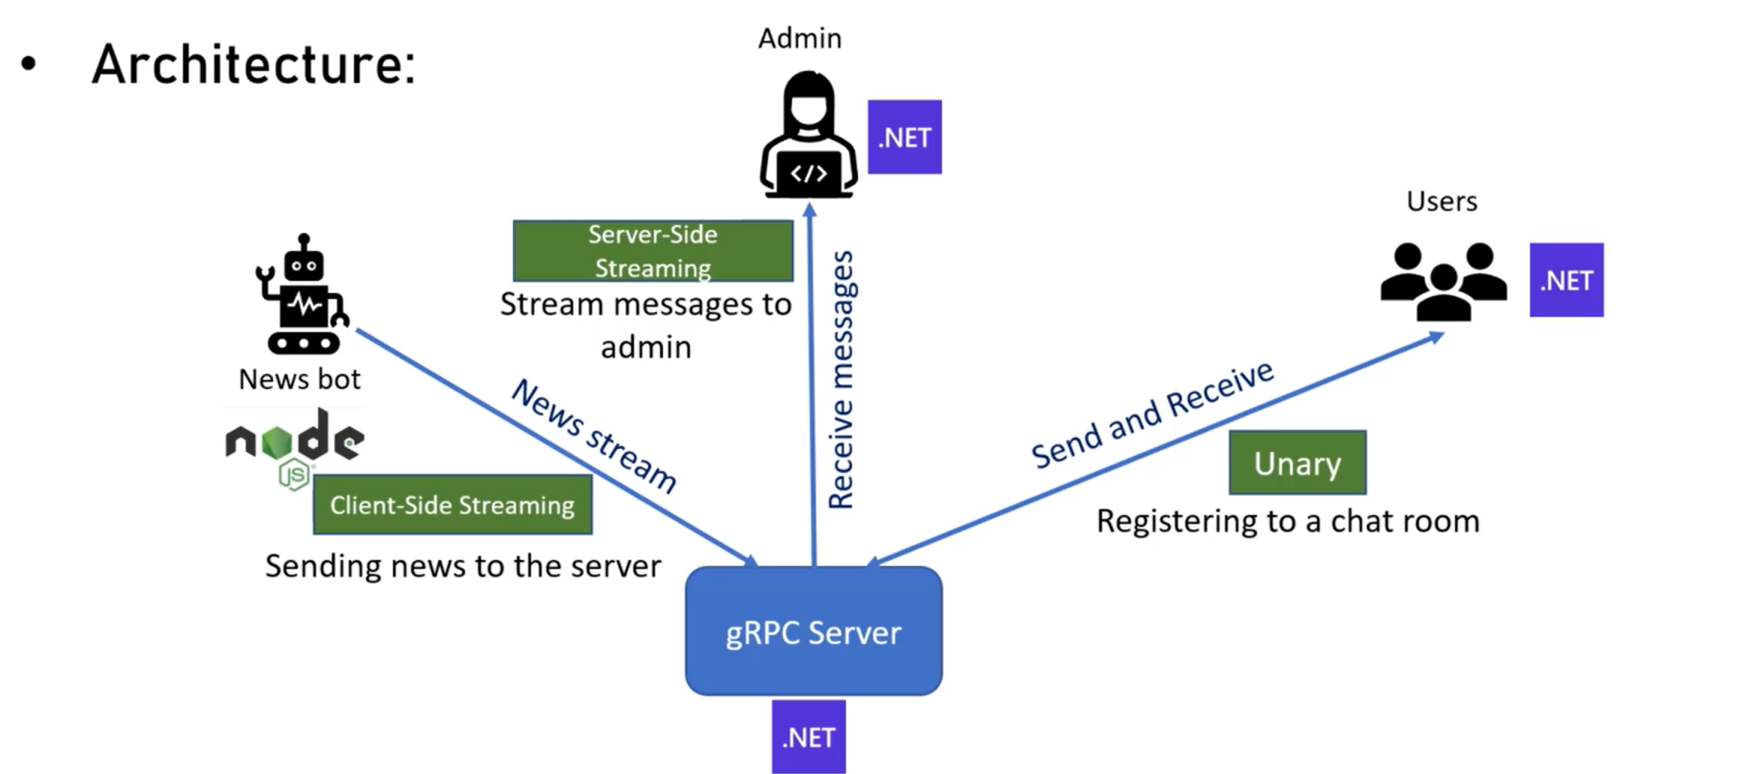
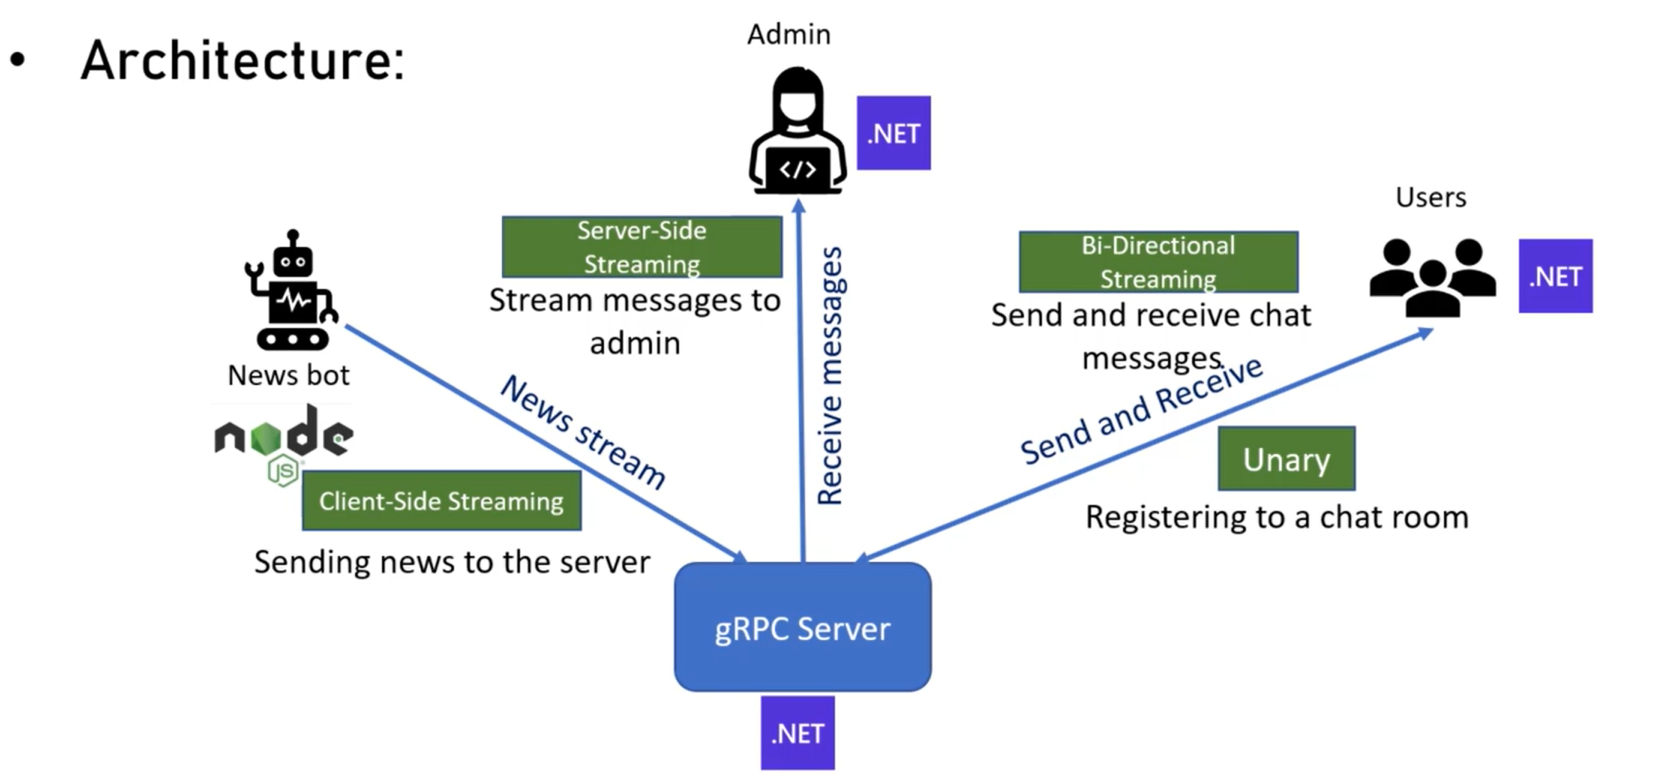
Setup for bi-directional stream

diff --git a/gRoomServer/Services/GRoomService.cs b/gRoomServer/Services/GRoomService.cs
@@ -13,34 +13,113 @@ public class GRoomService : GRoom.GRoomBase
         _logger = logger;
     }
 
-    public override Task<RoomRegistrationResponse> RegisterToRoom(RoomRegistrationRequest request, ServerCallContext context)
+    public override async Task<RoomRegistrationResponse> RegisterToRoom(RoomRegistrationRequest request, ServerCallContext context)
     {
-        _logger.LogInformation("Service called...");
-        _logger.LogInformation($"Room Name: {request.RoomName}");
-        var rnd = new Random();
-        var roomNum = rnd.Next(1, 100);
-        _logger.LogInformation($"Room no. {roomNum}");
-        var resp = new RoomRegistrationResponse { RoomId = roomNum };
-        return Task.FromResult(resp);
+        UsersQueues.CreateUserQueue(request.RoomName, request.UserName);
+        var resp = new RoomRegistrationResponse() { Joined = true };
+        return await Task.FromResult(resp);
     }
 
-    public override async Task<NewsStreamStatus> SendNewsFlash(IAsyncStreamReader<NewsFlash> newsStream, ServerCallContext context){
-        while (await newsStream.MoveNext()){
+    public override async Task<NewsStreamStatus> SendNewsFlash(IAsyncStreamReader<NewsFlash> newsStream, ServerCallContext context)
+    {
+        while (await newsStream.MoveNext())
+        {
             var news = newsStream.Current;
             MessagesQueue.AddNewsToQueue(news);
             Console.WriteLine($"News flash: {news.NewsItem}");
         }
-        return new NewsStreamStatus{Success=true};
+        return new NewsStreamStatus { Success = true };
     }
 
-    public override async Task StartMonitoring(Empty request, IServerStreamWriter<ReceivedMessage> streamWriter, ServerCallContext context){
-        while(true){
+    public override async Task StartMonitoring(Empty request, IServerStreamWriter<ReceivedMessage> streamWriter, ServerCallContext context)
+    {
+        while (true)
+        {
             //await streamWriter.WriteAsync(new ReceivedMessage{MsgTime=Timestamp.FromDateTime(DateTime.UtcNow), User="1", Contents="Test Message"});
-            if(MessagesQueue.GetMessagesCount()>0){
+            if (MessagesQueue.GetMessagesCount() > 0)
+            {
                 await streamWriter.WriteAsync(MessagesQueue.GetNextMessage());
             }
             await Task.Delay(500);
         }
+    }
+
+    public override async Task StartChat(IAsyncStreamReader<ChatMessage> incomingStream, IServerStreamWriter<ChatMessage> outgoingStream, ServerCallContext context)
+    {
+
+        // Wait for the first message to get the user name
+        while (!await incomingStream.MoveNext())
+        {
+            await Task.Delay(100);
+        }
+
+        string userName = incomingStream.Current.User;
+        string room = incomingStream.Current.Room;
+        Console.WriteLine($"User {userName} connected to room {incomingStream.Current.Room}");
+
+        // TEST TEST TEST TEST - TO USE ONLY WHEN TESTING WITH BLOOMRPC
+        UsersQueues.CreateUserQueue(room, userName);
+        // END TEST END TEST END TEST
+
+        // Get messages from the user
+        var reqTask = Task.Run(async () =>
+        {
+            while (await incomingStream.MoveNext())
+            {
+                Console.WriteLine($"Message received: {incomingStream.Current.Contents}");
+                UsersQueues.AddMessageToRoom(ConvertToReceivedMessage(incomingStream.Current), incomingStream.Current.Room);
+            }
+        });
+
+
+        // Check for messages to send to the user
+        var respTask = Task.Run(async () =>
+        {
+            while (true)
+            {
+                var userMsg = UsersQueues.GetMessageForUser(userName);
+                if (userMsg != null)
+                {
+                    var userMessage = ConvertToChatMessage(userMsg, room);
+                    await outgoingStream.WriteAsync(userMessage);
+                }
+                if (MessagesQueue.GetMessagesCount() > 0)
+                {
+                    var news = MessagesQueue.GetNextMessage();
+                    var newsMessage = ConvertToChatMessage(news, room);
+                    await outgoingStream.WriteAsync(newsMessage);
+                }
+
+                await Task.Delay(200);
+            }
+        });
+
+        // Keep the method running
+        while (true)
+        {
+            await Task.Delay(10000);
+        }
+    }
+
+    private ReceivedMessage ConvertToReceivedMessage(ChatMessage chatMsg)
+    {
+        var rcMsg = new ReceivedMessage();
+        rcMsg.Contents = chatMsg.Contents;
+        rcMsg.MsgTime = chatMsg.MsgTime;
+        rcMsg.User = chatMsg.User;
+
+        return rcMsg;
+    }
+
+    private ChatMessage ConvertToChatMessage(ReceivedMessage rcMsg, string room)
+    {
+        var chatMsg = new ChatMessage();
+        chatMsg.Contents = rcMsg.Contents;
+        chatMsg.MsgTime = rcMsg.MsgTime;
+        chatMsg.User = rcMsg.User;
+        chatMsg.Room = room;
+
+        return chatMsg;
     }
 }
 

diff --git a/gRoomServer/Utils/UsersQueues.cs b/gRoomServer/Utils/UsersQueues.cs
@@ -1,0 +1,68 @@
+using gRoom.gRPC.Messages;
+using Google.Protobuf.WellKnownTypes;
+
+namespace gRoom.gRPC.Utils;
+
+public class UsersQueues  {
+    private static List<UserQueue> _queues;
+    private static Queue<ReceivedMessage> _adminQueue;
+
+    static UsersQueues()  {
+        _queues = new List<UserQueue>();
+        _adminQueue = new Queue<ReceivedMessage>();
+    }
+
+    public static void CreateUserQueue(String room, String user)  {
+        _queues.Add(new UserQueue(room, user));
+    }    
+
+    public static void AddMessageToRoom(ReceivedMessage msg, string room)  {
+        // Add message only to users in this room 
+        foreach (var queue in _queues.Where(q=>q.Room==room))  {
+            queue.AddMessageToQueue(msg);
+        }
+        _adminQueue.Enqueue(msg);
+    }
+
+    public static ReceivedMessage GetMessageForUser(string user)  {
+        var userQueue = _queues.Where(q => q.User == user).First();
+        if (userQueue.GetMessagesCount()>0)  {
+            return userQueue.GetNextMessage();
+        }
+        else  {
+            return null;
+        }
+    }  
+
+    public static int GetAdminQueueMessageCount()  {
+        return _adminQueue.Count;
+    }  
+
+    public static ReceivedMessage GetNextAdminMessage()  {
+        return _adminQueue.Dequeue();
+    }
+}
+
+class UserQueue  {
+    private Queue<ReceivedMessage> queue  { get; }
+    public string Room { get; }
+    public string User { get; }
+
+    public UserQueue(string room, string user)  {
+        Room = room;
+        User = user;
+        this.queue = new Queue<ReceivedMessage>();
+    }
+
+    public void AddMessageToQueue(ReceivedMessage msg)  {
+        this.queue.Enqueue(msg);
+    }
+
+    public ReceivedMessage GetNextMessage()  {
+        return this.queue.Dequeue();
+    }  
+
+    public int GetMessagesCount()  {
+        return this.queue.Count;
+    } 
+}
